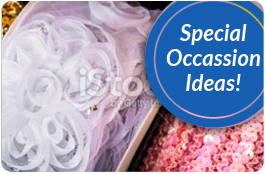
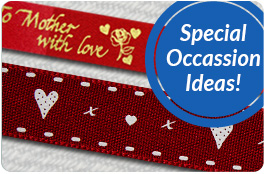
- Added new flowers and new ribbons - 16 items on new arrivals slider - changed panel image

diff --git a/config/initializers/01spree_search.rb b/config/initializers/01spree_search.rb
@@ -44,14 +44,21 @@ module Spree::Search
               with(:wired).any_of(params[:wired])
             end
 
-            if params.has_key?(:for_new_arrivals)
-
+            if (params.has_key?(:for_new_arrivals) || params.has_key?(:for_new_flowers) ||
+                params.has_key?(:for_new_ribbons) )
               date = 30.days.ago
               with(:available_on).between(date..Date.today)
-              group :cat_pattern do
-                limit 1
+
+              if params.has_key?(:for_new_flowers)
+                with(:type,'flowers')
+              elsif params.has_key?(:for_new_ribbons)
+                with(:type,'ribbons')
+                group :cat_pattern do
+                  limit 1
+                end
               end
             end
+
 
             order_by :available_on, :desc
 

diff --git a/app/helpers/application_helper.rb b/app/helpers/application_helper.rb
@@ -130,9 +130,9 @@ module ApplicationHelper
     return featured_products_array
   end
 
-  def new_arrivals
+  def new_arrivals(per_page = 30)
     #na = Spree::Product.where("available_on <= ?",Date.today).order(available_on: :desc).limit(10)
-    @new_searcher = search_solr({:for_new_arrivals=> true,:per_page => 30})
+    @new_searcher = search_solr({:for_new_arrivals=> true,:per_page => per_page})
     na = @new_searcher.retrieve_products
   end
 
